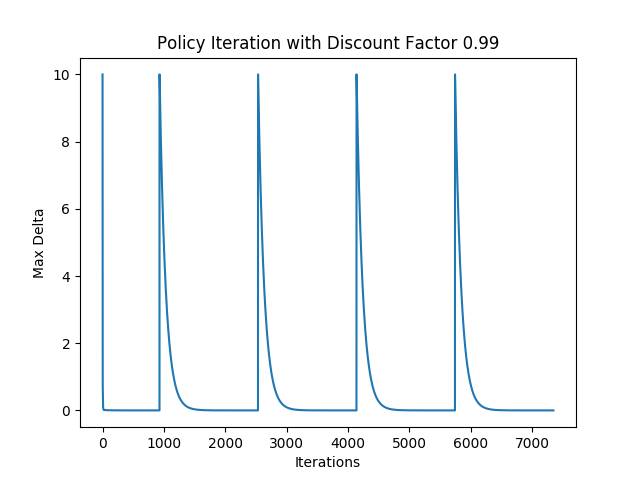
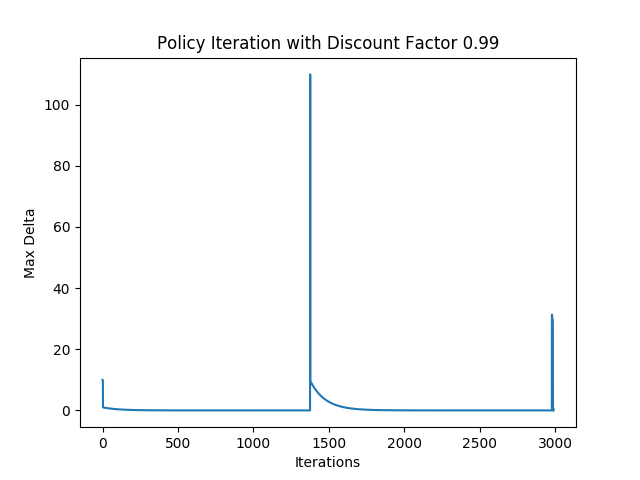
fixed policy iteration convergence bug

diff --git a/Python Files/policy_iteration.py b/Python Files/policy_iteration.py
@@ -20,7 +20,7 @@ state_count = gridSize*gridSize # total number of states
 
 # iterations = 0
 theta = 0.000001
-discount_factor = 0.8
+discount_factor = 0.99
 delta_list = []
 
 # UNCOMMENT THE FOLLOWING FOR EVEN POLICY
@@ -66,6 +66,9 @@ def calculate_action_value(state, value):
 final_max_iter = 0
 old_policy = np.zeros([state_count, action_count])
 
+# set value map
+final_value_map = grid.valueMap
+
 # POLICY ITERATION #####################################3
 while True:
     
@@ -75,7 +78,7 @@ while True:
         # Replace the value map with the calculated value.
 
     # run policy evaluation
-    final_value_map, max_iter, delta, policy = policy_evaluation(grid.valueMap, grid.states, discount_factor, theta, grid.reward, 
+    final_value_map, max_iter, delta, policy = policy_evaluation(final_value_map, grid.states, discount_factor, theta, grid.reward, 
                                                                     grid.p_transition, grid.transition_prob, policy)
 
     # for plotting purpose
@@ -116,7 +119,6 @@ while True:
     # check if policy changed
     if np.array_equal(old_policy, policy):
         policy_stopped_changing = final_max_iter - max_iter
-    
     old_policy = policy
     
     # if the policy is stable (eg. chosen action is the same as best action)

diff --git a/Python Files/graphs/results.md b/Python Files/graphs/results.md
@@ -89,9 +89,9 @@ Value Function:
 
 ## Policy Iteration with Random Policy, Discount Factor 0.99:
 
-Iterations: 7349
+Iterations: 2989
 
-Policy Stopped Changing: 5744
+Policy Stopped Changing: 2988
 
 Value Map: 
 [[201.9998 204.0402 201.9998 199.0402 197.0498]
@@ -110,9 +110,9 @@ Policy Table:
 
 ## Policy Iteration with Random Policy, Discount Factor 0.95:
 
-Iterations: 1447
+Iterations: 874
 
-Policy Stopped Changing: 1131
+Policy Stopped Changing: 873
 
 Value Map: 
 [[41.9947 44.2049 41.9947 39.2049 37.2447]
@@ -131,9 +131,9 @@ Policy Table:
 
 ## Policy Iteration with Random Policy, Discount Factor 0.8:
 
-Iterations: 192
+Iterations: 140
 
-Policy Stopped Changing: 118
+Policy Stopped Changing: 139
 
 Value Map: 
 [[11.8991 14.8739 11.8991 10.2459  8.1967]
